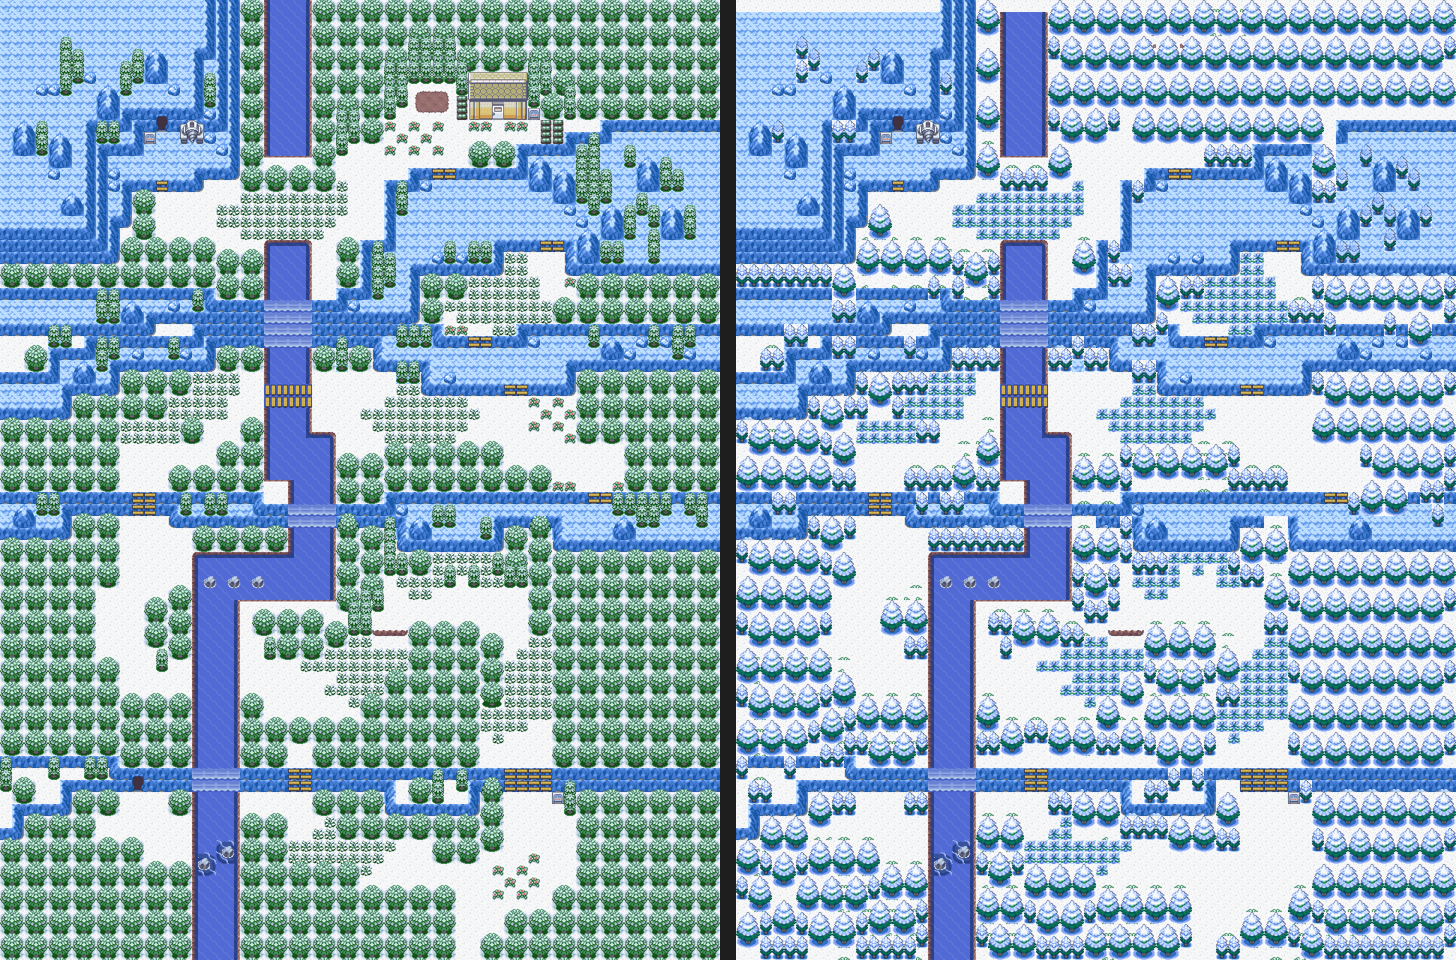
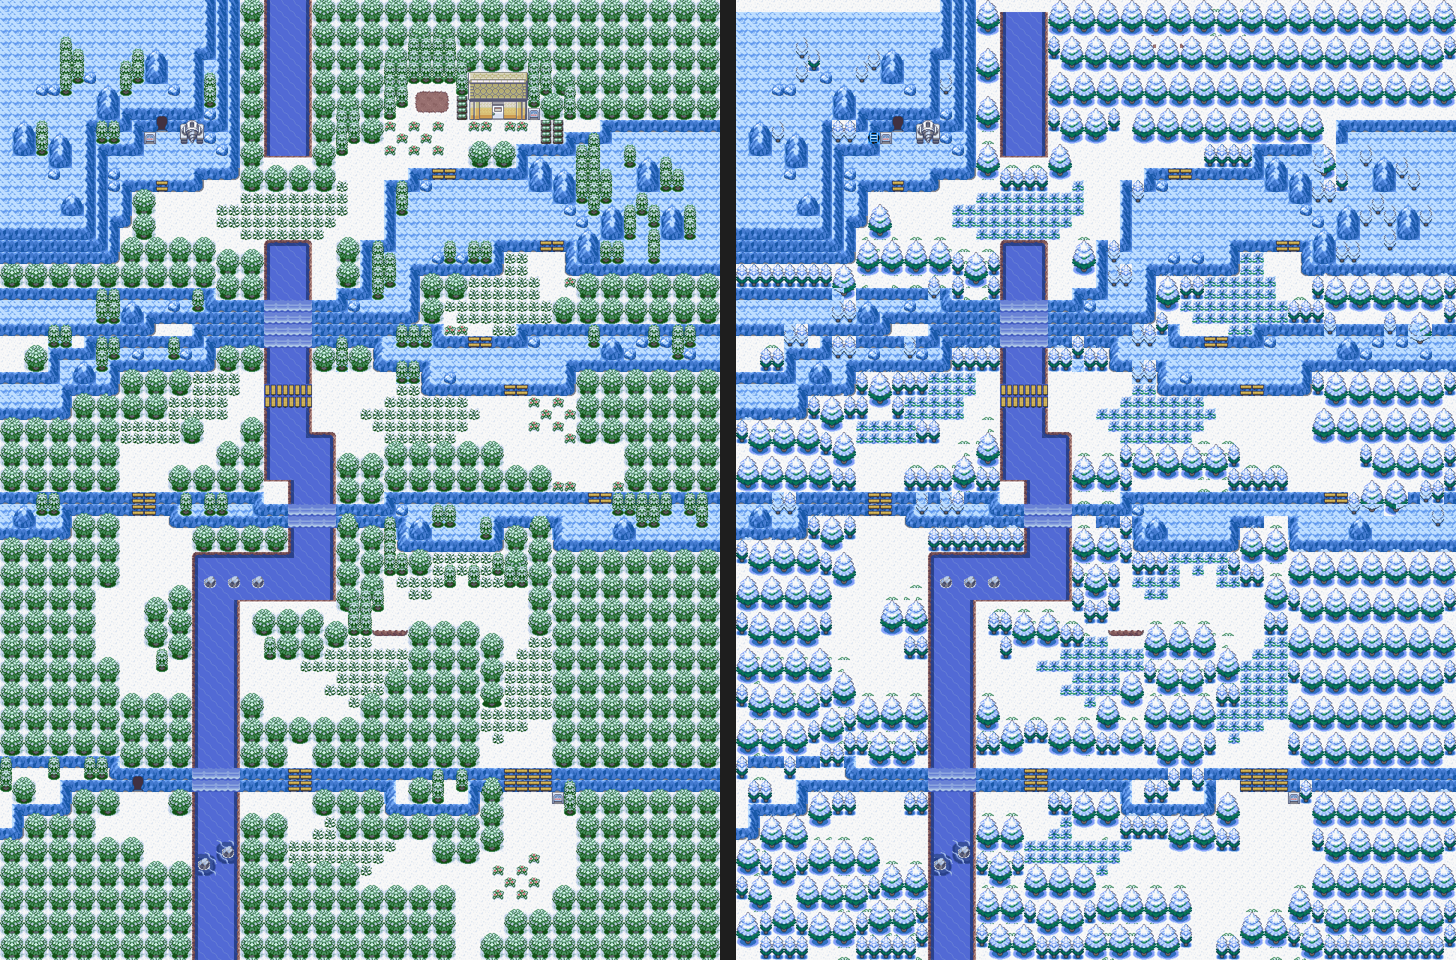
Mt. Mirroh exterior mock v1: the secret ladder to B1F by the cave mouth (under a Rock Smash rock); cleaner pines on ice
Claude-Session: https://claude.ai/code/session_01FHXnfqnedTHLf5QFbB3MCU

diff --git a/tools/art/mt_mirroh/exterior_mock.py b/tools/art/mt_mirroh/exterior_mock.py
@@ -23,6 +23,10 @@ BASE = os.path.join(REPO, 'assets', 'mt_mirroh_reference', 'dm_exterior.png')
 DOJO = {(x, y) for x in range(33, 49) for y in range(4, 12)}
 LOWER_MOUTH = [(11, 64), (11, 65)]
 CAVE = (13, 10)
+# the secret way down to B1F, Alaric's ritual site (user 2026-11-23: right by the main entrance into the mountain): a
+# ladder hole in the ice in the corner left of the cave mouth, under a Rock Smash rock (an object, placed by the build;
+# Rock Smash comes later in the game, so in Chapter 1 the rock stays)
+SECRET = (11, 11)
 MB_TALL_GRASS = 0x02
 EFG = mm.EF_GROUND
 BIG, SMALL, ROCK = [[0xe9, 0xea], [0xf1, 0xf2], [0xf9, 0xfa]], [[0x109], [0x111]], [[0xe8]]
@@ -53,7 +57,20 @@ def compose():
     def greens(x, y):
         c = cell_of(dm, x, y).astype(int); return int(((c[..., 1] - c[..., 0] > 20) & (c[..., 1] >= c[..., 2] - 10)).sum())
     tree = {(x, y) for (x, y), v in cells.items() if v[0] != 0 and (v[4] - v[5] > 5 or greens(x, y) >= 24)}   # (a pine's snowy top too)
+    def nearest_ground_kind(x, y):
+        for r in range(1, 8):
+            for n in ((x, y + r), (x - r, y), (x + r, y), (x, y - r)):
+                v = cells.get(n)
+                if v and v[0] == 0 and n not in tree: return v[2]
+        return 'MB_NORMAL'
+    def ice_bg(x, y):                                       # (what DM drew round its tree: light-blue ice or white snow)
+        c = cell_of(dm, x, y).astype(int)
+        blue = ((c[..., 2] - c[..., 0] > 30) & (c.sum(-1) > 450)).sum(); white = (c.min(-1) > 230).sum()
+        return blue > white
     on_ice = {(x, y) for (x, y) in tree if cells[(x, y)][2] == 'MB_MOUNTAIN_TOP'}
+    for y in range(H - 1, -1, -1):                          # (the top of a pine whose foot stands on the ice)
+        for x in range(W):
+            if (x, y) in tree and (x, y + 1) in on_ice and cells.get((x - 1, y), [1, 0, ''])[2] != 'MB_NORMAL': on_ice.add((x, y))
     tree |= DOJO
     for x in range(W):                                              # (the top edge closed: pinewood)
         if not solid[0, x]: tree |= {(x, 0)}
@@ -92,13 +109,15 @@ def compose():
         if (x, y + 1) in tree and (x, y + 1) not in used: place(SMALL, x, y)
         else: place(ROCK, x, y)                                         # (no bare cells in a wood: they read as ground)
     # trees standing on DM's ice: Elderflower's plain snow left round them (its two commonest colours) shows the ice
-    t0 = mm.full('ef', 0xed).reshape(-1, 3); cols, cnt = np.unique(t0, axis=0, return_counts=True)
-    ground2 = [tuple(c) for c in cols[np.argsort(-cnt)[:2]]]
+    from scipy.ndimage import label as _label
+    efsnow = {tuple(c) for m_ in (0xed, 0xee) for c in mm.full('ef', m_).reshape(-1, 3)}
     for (x, y) in on_ice:
         reg = img[y * 16:y * 16 + 16, x * 16:x * 16 + 16]
-        m = np.zeros((16, 16), bool)
-        for c in ground2: m |= (reg == c).all(-1)
-        reg[m] = ICE[m]
+        icec = ground_near(x, y, plain_ice, ICE)
+        sn = np.array([[tuple(c) in efsnow for c in row] for row in reg])
+        lb, n = _label(sn)                                          # (the snow round the tree: it reaches the cell's
+        edge = set(lb[0]) | set(lb[:, 0]) | set(lb[:, -1]); edge.discard(0)   #  top or sides; the tree's own snow does not)
+        for k in edge: reg[lb == k] = icec[lb == k]
     # DM's little green shrubs on open ground: gone (Route 13's woods have none); its plain ground under them
     for (x, y), (col, el, b, r, g, bl) in cells.items():
         if col == 0 and g - bl > 5 and g - r > 10 and b != 'MB_TALL_GRASS' and (x, y) not in tree:
@@ -136,6 +155,13 @@ def compose():
             n = (x + d, y); v = cells.get(n)
             if v and v[0] == 1 and n not in tree and n not in LOWER_MOUTH and v[2] == 'MB_MOUNTAIN_TOP' and v[5] - v[3] > 40: break
         img[y * 16:y * 16 + 16, x * 16:x * 16 + 16] = cell_of(dm, *n); solid[y, x] = True; beh[y, x] = 0
+    # the ladder hole: Dreamstone Mysteries' own (its 1F's ladder at (38, 45)), cut from its cave floor onto the ice
+    one = np.array(Image.open(os.path.join(REPO, 'assets', 'mt_mirroh_reference', 'dm_1f.png')).convert('RGB'))
+    lad = cell_of(one, 38, 45).astype(int); flo = cell_of(one, 37, 45).astype(int)
+    m = (np.abs(lad - flo).sum(-1) > 24)
+    from scipy.ndimage import binary_fill_holes
+    m = binary_fill_holes(m)
+    x, y = SECRET; reg = img[y * 16:y * 16 + 16, x * 16:x * 16 + 16]; reg[m] = lad[m]
     return img, solid, beh
 
 def reach(solid, start):

diff --git a/bible/20_chapter1_build.md b/bible/20_chapter1_build.md
@@ -204,7 +204,7 @@ Chapter 1 is the template: once its foundations (mechanics, maps, buildings, NPC
     - **Walked in the emulator** both ways: Hollow Hill → Mirroh Gate → hallway → Lower → stairs → Upper → north-west hallway (turned back) → skull gate → grounds → the lake and back, then all the way down again to Hollow Hill (`assets/mirroh_reference/ingame_mirroh_tour.png`).
     - Lamps, benches and snow flowers are solid. The reflecting ice is plain floor for now.
   - **Mt. Mirroh and Mirroh Peak, decided (user 2026-11-23):** **three maps: the outdoor climb, one cave floor, the summit.** The climb carries the Sword Cult trainers and, off the path, the hidden camp where acolytes torture a captured Beads cultist (8a); the cave floor runs through the mountain and holds **the scarred site of Alaric's Ting-Lu ritual** two years ago (bible 12); the summit plateau is the stage for Baradus, the hurt Eden, the shiny Crabominable and Kimaris's arrival (8b-8c). **The look (user):** a combination of Route 13's art (MonoMyth's northern routes and Fort Elderflower), **MonoMyth's mountains (like Mt. Thunder)**, **Dreamstone Mysteries' snowy and icy mountain terrain**, and **Crown's, if it has any**. **Clarified by the user the same evening: Mt. Mirroh is an expansion of Dreamstone Mysteries' own Mt. Mirroh.** Its overall design and layout (the exterior valley, the caves `MirrohInterior_1F/2F/B1F`, the Peak) are kept as the basis and expanded and re-dressed in the combined art, not replaced by a new design. (So the earlier "replaced, deleted later" applies only to whatever of the old maps the expansion leaves unused.)
-    - **Dreamstone Mysteries' Mt. Mirroh, as found (2026-11-23; `assets/mt_mirroh_reference/dm_mt_mirroh_overview.png`, exits marked):** **the exterior** (`MtMirrohExterior`, 60x80): a river valley climbing from Mirroh Base Camp at its foot (a map connection), bridges and pinewoods, a pushable-boulder puzzle at its head beside **the cave mouth** (13,10) **and a fighting dojo** (41,9); a **lower cave mouth** (11,65) into B1F. **1F** (60x60, an ice cave): **a rest stop with a nurse** (41,46), boulder puzzles, plank bridges, three ways up to **2F** (60x60, a loop of trainers and a boulder puzzle), **the exit onto the Peak** (3,12) with two Magma members beside it, and an exit to Lily Pond (a later area). **B1F** (60x80): one great icy hall reached from the lower mouth (Winterlily Hollow, later, warps into it). **The Peak** (`MirrohPeak`, 50x110): a pinewood snowfield at its foot (from 1F), terraced ice cliffs climbed past Magma grunts, **a long bridge across a frozen lake to the summit**, where huts stand and DM's climax took place (Maxie, a Deoxys triangle); an exit east to Winterlily Hollow (later). **The expansion's flow, decided by the user 2026-11-23:** **the exterior** (the river climb; **the fighting dojo removed**) leads into **1F**, where the player meets a few hikers and enemy trainers and, **near the stairs up to 2F, comes upon Sword Cult acolytes torturing a captured Beads cultist (8a)**: **the inciting incident** that drives the player to explore further, alongside the search for the first Dreamstone Shard. **2F is where the player finds the Dreamstone Shard.** From 2F, **the Peak**: at the summit (**abandoned ruins**: old stone huts and a broken shrine, where rumours placed the Shard) the player **beats the Sword Cult's unit boss there, a cardinal cultist**; **Baradus swoops in and kills him in front of the player for losing**: **his Crabominable crushes the cardinal, leaving a mangled corpse**, and then Baradus turns on the player (the curbstomp, 8b). Meant to make a big impact: how no-nonsense, ruthless and dangerous Baradus is. (The rest of Beat 8 stands unless the user changes it: the hurt Eden, Kimaris's arrival, 8d's aftermath.) **Alaric's Ting-Lu ritual site is B1F** (user 2026-11-23, correcting the earlier "delete B1F": "technically a B1F you need to make where the Ting-Lu ritual took place, but sealed in Chapter 1 and you can't access it"): **a sealed, caved-in spot on 1F**, broken open later with Rock Smash (a side quest later in the game), leads down to it. **B1F is made in stage 1** (its look: the scarred ritual site, expanding DM's B1F great icy hall) **and is unreachable in Chapter 1**; the exterior's lower cave mouth into it is removed (the only way in is the 1F cave-in); Winterlily Hollow's warps into it are settled when that later area is done. **Eden and Kimaris close the Peak scene as written** (user 2026-11-23). **The exterior, mock v1 (2026-11-23; `tools/art/mt_mirroh/exterior_mock.py`, `assets/mt_mirroh_reference/exterior_mock_v1.png`, beside DM's: `exterior_dm_vs_mock_v1.png`):** DM's own picture and collision as the base, so its layout stays exactly (its blue ice cliffs and plateaus, river, falls, bridges, stairs, meadows, the cave mouth at the head, the boulders); its pines become Route 13's (Fort Elderflower's, whole trees, staggered), its tall grass Route 13's ice grass, its stray green shrubs gone; the dojo pinewood, the lower cave mouth rock, the top edge closed; reachable from the foot path to the cave mouth. Art reference for the expansion: **MonoMyth's Mt. Thunder** (its mapsecs 59, 73, 126: pale-blue ice caves, snowfields with pines, a diagonal mountain face, a summit; `assets/mt_mirroh_reference/monomyth_mt_thunder_maps.png`).
+    - **Dreamstone Mysteries' Mt. Mirroh, as found (2026-11-23; `assets/mt_mirroh_reference/dm_mt_mirroh_overview.png`, exits marked):** **the exterior** (`MtMirrohExterior`, 60x80): a river valley climbing from Mirroh Base Camp at its foot (a map connection), bridges and pinewoods, a pushable-boulder puzzle at its head beside **the cave mouth** (13,10) **and a fighting dojo** (41,9); a **lower cave mouth** (11,65) into B1F. **1F** (60x60, an ice cave): **a rest stop with a nurse** (41,46), boulder puzzles, plank bridges, three ways up to **2F** (60x60, a loop of trainers and a boulder puzzle), **the exit onto the Peak** (3,12) with two Magma members beside it, and an exit to Lily Pond (a later area). **B1F** (60x80): one great icy hall reached from the lower mouth (Winterlily Hollow, later, warps into it). **The Peak** (`MirrohPeak`, 50x110): a pinewood snowfield at its foot (from 1F), terraced ice cliffs climbed past Magma grunts, **a long bridge across a frozen lake to the summit**, where huts stand and DM's climax took place (Maxie, a Deoxys triangle); an exit east to Winterlily Hollow (later). **The expansion's flow, decided by the user 2026-11-23:** **the exterior** (the river climb; **the fighting dojo removed**) leads into **1F**, where the player meets a few hikers and enemy trainers and, **near the stairs up to 2F, comes upon Sword Cult acolytes torturing a captured Beads cultist (8a)**: **the inciting incident** that drives the player to explore further, alongside the search for the first Dreamstone Shard. **2F is where the player finds the Dreamstone Shard.** From 2F, **the Peak**: at the summit (**abandoned ruins**: old stone huts and a broken shrine, where rumours placed the Shard) the player **beats the Sword Cult's unit boss there, a cardinal cultist**; **Baradus swoops in and kills him in front of the player for losing**: **his Crabominable crushes the cardinal, leaving a mangled corpse**, and then Baradus turns on the player (the curbstomp, 8b). Meant to make a big impact: how no-nonsense, ruthless and dangerous Baradus is. (The rest of Beat 8 stands unless the user changes it: the hurt Eden, Kimaris's arrival, 8d's aftermath.) **Alaric's Ting-Lu ritual site is B1F** (user 2026-11-23, correcting the earlier "delete B1F": "technically a B1F you need to make where the Ting-Lu ritual took place, but sealed in Chapter 1 and you can't access it"): **a ladder down beside the exterior's cave mouth, covered by a Rock Smash rock** (user 2026-11-23: right near the main entrance into the mountain; it replaces the earlier "caved-in spot on 1F"), broken open later with Rock Smash (a side quest later in the game), leads down to it. **B1F is made in stage 1** (its look: the scarred ritual site, expanding DM's B1F great icy hall) **and is unreachable in Chapter 1**; the exterior's lower cave mouth into it is removed (the only way in is the 1F cave-in); Winterlily Hollow's warps into it are settled when that later area is done. **Eden and Kimaris close the Peak scene as written** (user 2026-11-23). **The exterior, mock v1 (2026-11-23; `tools/art/mt_mirroh/exterior_mock.py`, `assets/mt_mirroh_reference/exterior_mock_v1.png`, beside DM's: `exterior_dm_vs_mock_v1.png`):** DM's own picture and collision as the base, so its layout stays exactly (its blue ice cliffs and plateaus, river, falls, bridges, stairs, meadows, the cave mouth at the head, the boulders); its pines become Route 13's (Fort Elderflower's, whole trees, staggered), its tall grass Route 13's ice grass, its stray green shrubs gone; the dojo pinewood, the lower cave mouth rock, the top edge closed; reachable from the foot path to the cave mouth. **The secret way down to B1F (user 2026-11-23: "right near the main entrance going into Mt. Mirroh proper"):** a ladder hole in the ice at (11,11), in the corner just left of the cave mouth's signpost (Dreamstone Mysteries' own ladder hole from its 1F, cut onto the ice), **covered by a Rock Smash rock** (an object); Rock Smash comes later in the game, so in Chapter 1 it stays shut (`assets/mt_mirroh_reference/exterior_secret_ladder.png`). Art reference for the expansion: **MonoMyth's Mt. Thunder** (its mapsecs 59, 73, 126: pale-blue ice caves, snowfields with pines, a diagonal mountain face, a summit; `assets/mt_mirroh_reference/monomyth_mt_thunder_maps.png`).
   - **Mirroh Necropolis grounds built (2026-11-21):** `NecropolisGrounds` (44x50, `tools/art/necropolis/build_grounds.py`, from the approved mock).
     - The foot of the way in leads back to Mirroh's skull gate. The grand entrance's dark doorway leads down to the lake's landing, whose foot leads back up.
     - **Its foot shows the skull gate (user 2026-11-22: check the other gatehouses and entrances for what Route 13's foot did).** The way back to Mirroh had run off the bottom edge between the hedges into open snow (the border), and you came out before a gate you never saw. Now 44x59: below the mock, nine rows of Upper Mirroh as built (its x 22 on, its flank pines carried on past its edge): the city wall-walk running on to the gate's towers behind their spires, the skull gate's spired towers and crenellated top, the chapel and graves behind the wall. The road runs down between the spires (Upper's x 42-46 under the grounds' x 20-24), and its last snow row above the gate's top (row 53) is the warp, MonoMyth's convention. Foot warps 0-2 are x 21-23 (Upper's gate warps at x 43-45 lead to them in order), 3-4 are x 20 and 24. The grand entrance door is now warp 5; the lake's exits point to it. The south gatehouse's back door in Lower Mirroh was checked and was already right: the street's last two cells at the roof's peak. Walked in the game: skull gate to the grounds' foot, the grand entrance, the lake and back, the foot back to Upper.

diff --git a/docs/chapter1_workflow.md b/docs/chapter1_workflow.md
@@ -75,7 +75,7 @@ to the Ivy River) are later chapters.
    switchback ascent).
 2. Templar Headquarters: courtyard BUILT and walked 2026-11-22 (`TemplarCitadel`, a fade from Route 13's NE exit). **The four courtyard houses BUILT and walked 2026-11-23** (the Tavern with its staff and heal point, the barracks, the armoury, the watch house; `citadel_rooms/build_houses.py`; walk `tools/playtest/citadel_houses_walk.py`). **The cathedral BUILT and walked 2026-11-23** (`TemplarCathedral` the nave; the study, the bishops' hall and dormitory, the Braviary registry, the kitchen, the storehouse; the Sanctum built, sealed; `tools/art/templar_hq/cathedral/build_cathedral.py`; walk `tools/playtest/cathedral_walk.py`). The east house became a watch house (user: a mews would repeat the registry). Stage 1 for the Citadel is complete. (Was in progress 2026-11-22: zone plan v2, the church cut from Pokémon Empire's Arceus church; required before Mt. Mirroh, the first Ambrose meeting; interior two levels, cathedral + offices, the Sanctum above). Was: Crown's gothic cathedral on its moat island with timber chalets, alpine snow, perhaps an
    outer wall (bible 16.10 art plan). In Chapter 1 the way to the mountain passes it; Loulan recurs there.
-3. Mt. Mirroh and Mirroh Peak (in progress 2026-11-23): **an expansion of Dreamstone Mysteries' Mt. Mirroh** (user): the exterior climb (dojo removed), 1F (hikers, trainers, the torture scene near the stairs to 2F, a sealed caved-in spot for a later Rock Smash side quest), 2F (the Shard), the Peak (the cardinal, Baradus, Eden, Kimaris; summit ruins). B1F: Alaric's sealed Ting-Lu ritual site, made now, reached later through 1F's cave-in (Rock Smash). Art: Route 13's, MonoMyth's Mt. Thunder, DM's snow, Crown's if any. The base game's maps (`MtMirrohExterior`, `MirrohPeak`, the caves `MirrohInterior_*`) are DM-era, on old
+3. Mt. Mirroh and Mirroh Peak (in progress 2026-11-23): **an expansion of Dreamstone Mysteries' Mt. Mirroh** (user): the exterior climb (dojo removed), 1F (hikers, trainers, the torture scene near the stairs to 2F, ), 2F (the Shard), the Peak (the cardinal, Baradus, Eden, Kimaris; summit ruins). B1F: Alaric's sealed Ting-Lu ritual site, made now, reached later by a ladder beside the exterior's cave mouth under a Rock Smash rock. Art: Route 13's, MonoMyth's Mt. Thunder, DM's snow, Crown's if any. The base game's maps (`MtMirrohExterior`, `MirrohPeak`, the caves `MirrohInterior_*`) are DM-era, on old
    tilesets: rebuild or replace.
 4. The Ancient Cormoria slip (Beat 8e): one small scripted zone. A new map: DM's `AncientMirroh` maps are DM's window
    into *our* era (bible 01), not Cormor's.
